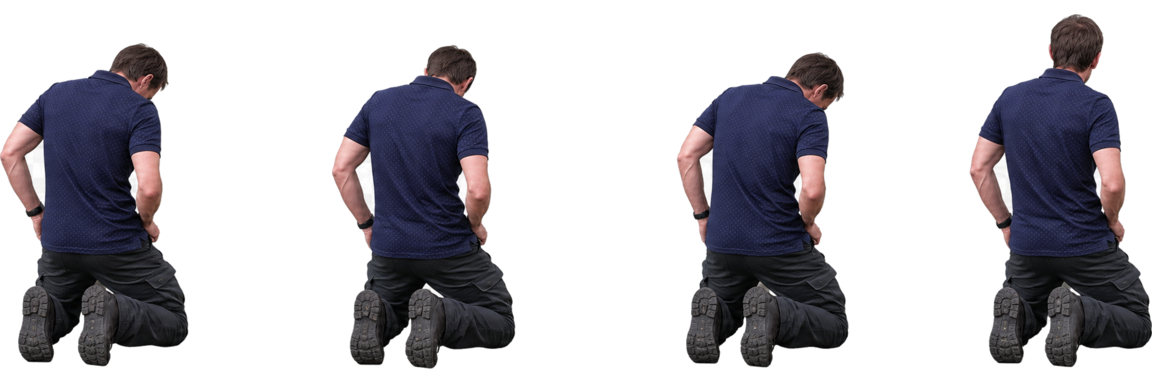
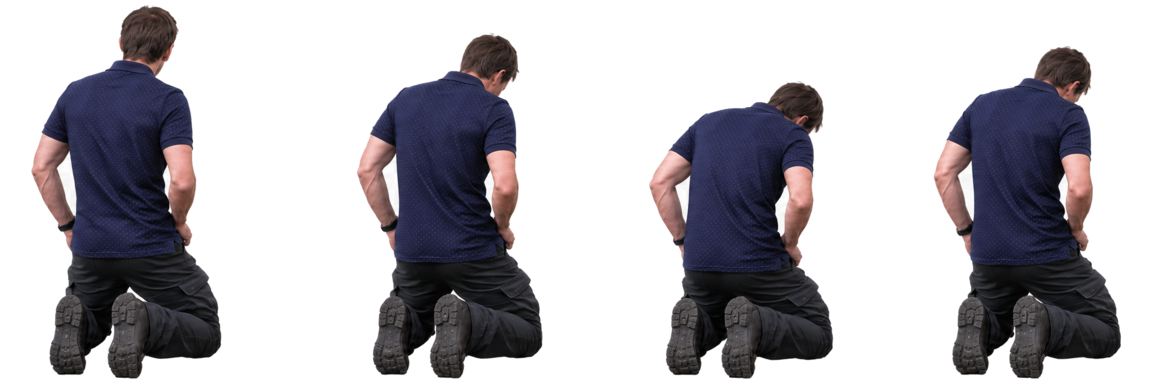
Add files via upload

diff --git a/hell_corridor_iv.html b/hell_corridor_iv.html
@@ -95,7 +95,7 @@ button.startbtn{border:3px solid #ffbd35;border-radius:4px;background:#a61414;co
 <img id="vanoverStainImg" src="vanover_stain.png" alt="" hidden>
 <div id="hud"><div id="score">SCORE 000000<br>DEVILS CORNER IV • 1991</div><div id="bloodHud">BLOOD 0</div><div id="objective">OBJECTIVE: PURGE THE SECTOR</div><div id="compass"></div><canvas id="radar" width="92" height="92"></canvas><div id="bossbar"><div class="bossfill"></div><span id="bossName">VANOVER</span></div><div id="cross"></div><div id="message"></div><div id="damage"></div><div id="status"><canvas id="face" width="54" height="54"></canvas><div class="stat health">GOYBOY<b id="health">100</b></div><div class="stat">AMMO<b id="ammo">72</b></div><div class="stat">KILLS<b id="kills">0/8</b></div></div><div id="weapons"><button class="weaponSlot active" data-w="0"><b>1</b>RIPPER<span class="weaponAmmo">72</span></button><button class="weaponSlot" data-w="1"><b>2</b>SCATTER<span class="weaponAmmo">24</span></button><button class="weaponSlot" data-w="2"><b>3</b>PLASMA<span class="weaponAmmo">45</span></button><button class="weaponSlot" data-w="3"><b>4</b>CHAIN<span id="gasReadout">GAS 100%</span></button></div></div>
 <div id="controls"><div id="look-zone"></div><div id="stick-zone"></div><div id="stick"><div id="knob"></div></div><button class="btn disabled" id="throw" type="button" aria-label="Throw Cigarette Butt"><span id="throwCount">0</span><small>THROW</small></button><button class="btn" id="use" type="button">USE</button><button class="btn" id="fire" type="button">FIRE</button></div><button id="mute" aria-label="Mute music">♫</button>
-<div id="start"><div class="card"><div class="eyebrow">GOYBOY ENGINE 6.18 • AUGUSTINE'S DISTRACTION</div><h1 class="title">DEVILS CORNER <span class="roman">IV</span></h1><div class="sub">BLOOD DOMINION</div><div class="lore">Every descent begins in an uneasy sanctuary. Augustine smiles while Vanover searches for a stain—but the moment Goyboy starts trouble, the hunt begins.</div><div class="difficulty"><button class="diffbtn" data-d="0">RECRUIT</button><button class="diffbtn active" data-d="1">MARINE</button><button class="diffbtn" data-d="2">NIGHTMARE</button></div><div class="help">Nathen's Blood Market waits in the protected spawn room<br>Augustine keeps Vanover distracted until combat begins<br>Leaving, firing, throwing, or opening the cage awakens the level<br>Install on iPhone: Share → Add to Home Screen</div><button class="startbtn" id="startBtn">ENTER DEVILS CORNER</button></div></div>
+<div id="start"><div class="card"><div class="eyebrow">GOYBOY ENGINE 6.19 • AUGUSTINE'S DISTRACTION</div><h1 class="title">DEVILS CORNER <span class="roman">IV</span></h1><div class="sub">BLOOD DOMINION</div><div class="lore">Every descent begins in an uneasy sanctuary. Augustine smiles while Vanover searches for a stain—but the moment Goyboy starts trouble, the hunt begins.</div><div class="difficulty"><button class="diffbtn" data-d="0">RECRUIT</button><button class="diffbtn active" data-d="1">MARINE</button><button class="diffbtn" data-d="2">NIGHTMARE</button></div><div class="help">Nathen's Blood Market waits in the protected spawn room<br>Augustine keeps Vanover distracted until combat begins<br>Leaving, firing, throwing, or opening the cage awakens the level<br>Install on iPhone: Share → Add to Home Screen</div><button class="startbtn" id="startBtn">ENTER DEVILS CORNER</button></div></div>
 <div id="end"><div class="card"><h1 class="title" id="endTitle">SECTOR PURGED</h1><div class="scoreline" id="finalScore"></div><button class="startbtn" id="again">RUN IT AGAIN</button></div></div>
 <div id="upgrade"><div class="card"><div class="eyebrow">DESCENT REWARD</div><h2>CHOOSE YOUR DAMNATION</h2><div id="upgradeChoices"></div></div></div>
 <div id="shop"><div class="shopPanel"><div class="shopPortrait" aria-label="Nathen churning butter"></div><div><div class="shopHead"><div><div class="eyebrow">NATHEN'S BLOOD MARKET</div><h2>CHURN &amp; BURN</h2><div class="shopBlood" id="shopBlood">BLOOD: 0</div></div><button class="shopClose" id="shopClose">CLOSE</button></div><div class="shopGrid"><button class="shopItem" data-buy="health"><b>ARIZONA TEA</b>Restore 40 health<span>8 BLOOD</span></button><button class="shopItem" data-buy="ammo"><b>AMMO CRATE</b>+24 / +8 / +16<span>10 BLOOD</span></button><button class="shopItem" data-buy="power"><b>HELL POWER</b>Random power-up<span>18 BLOOD</span></button><button class="shopItem" data-buy="butt"><b>CIGARETTE BUTT</b>Vanover bait +1<span>14 BLOOD</span></button><button class="shopItem" data-buy="gas"><b>CHAIN GAS</b>Restore 50% gas<span>9 BLOOD</span></button><button class="shopItem" data-buy="armor"><b>SOUL PLATE</b>Gain 40 armor<span>12 BLOOD</span></button></div><div class="shopMsg" id="shopMsg">Nathen never stops churning.</div></div></div></div>
@@ -273,7 +273,7 @@ const finishEnemyNathenBase=finishEnemy;finishEnemy=function(e,melee=false){let 
 const resetNathenBase=reset;reset=function(next=false){if(!next)blood=0;resetNathenBase(next);setupNathen();updateHUD()};
 const releaseRunnerNathenBase=releaseRunner;releaseRunner=function(){let locked=!!runner?.caged;releaseRunnerNathenBase();if(locked)endSpawnSanctuary()};
 const tryMoveNathenBase=tryMove;tryMove=function(nx,ny,obj=p){if(nathen&&obj!==nathen&&Math.hypot(nx-nathen.x,ny-nathen.y)<(obj===p?.54:.43))return false;return tryMoveNathenBase(nx,ny,obj)};
-const useNathenBase=use;use=function(){if(run&&nathen&&Math.hypot(p.x-nathen.x,p.y-nathen.y)<1.42&&clearLine(p.x,p.y,nathen.x,nathen.y)){openNathenStore();return}useNathenBase()};
+const useNathenBase=use;use=function(){let cagePriority=runner?.caged&&runnerCage&&Math.hypot(p.x-runnerCage.x,p.y-runnerCage.y)<1.5;if(run&&nathen&&!cagePriority&&Math.hypot(p.x-nathen.x,p.y-nathen.y)<1.42&&clearLine(p.x,p.y,nathen.x,nathen.y)){openNathenStore();return}useNathenBase()};
 const updateNathenBase=update;update=function(dt){if(spawnSanctuary){if(!inSpawnSanctuary(p.x,p.y))endSpawnSanctuary('SANCTUARY BREACHED • MONSTERS AWAKEN');else spawnGrace=Math.max(spawnGrace,1.2)}updateNathenBase(dt);if(run)collectBlood()};
 const worldNathenBase=drawWorldSprites;drawWorldSprites=function(){worldNathenBase();drawBloodDrops();drawNathenWorld()};
 const radarNathenBase=drawRadar;drawRadar=function(){radarNathenBase();let sc=(Math.min(rad.width,rad.height)-10)/16,ox=(rad.width-16*sc)/2,oy=(rad.height-16*sc)/2;if(nathen){rg.fillStyle='#ffcf58';rg.fillRect(ox+nathen.x*sc-2,oy+nathen.y*sc-2,4,4);rg.fillStyle='#fff2ae';rg.font='bold 6px monospace';rg.fillText('N',ox+nathen.x*sc-2,oy+nathen.y*sc-4)}for(const o of bloodDrops)if(o.on){rg.fillStyle='#d7192d';rg.fillRect(ox+o.x*sc-1,oy+o.y*sc-1,3,3)}};
@@ -282,11 +282,11 @@ const finishNathenBase=finish;finish=function(win){if(shopOpen)closeNathenStore(
 // AUGUSTINE'S OPENING TABLEAU: a harmless, untargetable distraction in every sanctuary
 let bottleFriend=null;
 function openingPointClear(x,y,r=.22){if(wallAt(x-r,y-r)||wallAt(x+r,y-r)||wallAt(x-r,y+r)||wallAt(x+r,y+r))return false;if(nathen&&Math.hypot(x-nathen.x,y-nathen.y)<.72)return false;if(runnerCage&&Math.hypot(x-runnerCage.x,y-runnerCage.y)<.78)return false;return !pickups.some(i=>i.on&&Math.hypot(x-i.x,y-i.y)<.55)}
-function setupBottleFriend(){bottleFriend=null;let v=enemies.find(e=>e.alive&&e.stalker);if(!v)return;let spots=[];for(let i=0;i<32;i++){let a=i*Math.PI/16,fx=Math.cos(a),fy=Math.sin(a),rx=-fy,ry=fx;for(const side of [-.42,.42]){let ax=p.x+fx*2.42+rx*side,ay=p.y+fy*2.42+ry*side,vx=p.x+fx*1.28+rx*side*.18,vy=p.y+fy*1.28+ry*side*.18;if(!openingPointClear(ax,ay,.24)||!openingPointClear(vx,vy,.28)||!clearLine(p.x,p.y,ax,ay))continue;let dN=nathen?Math.hypot(ax-nathen.x,ay-nathen.y):9,dC=runnerCage?Math.hypot(ax-runnerCage.x,ay-runnerCage.y):9;spots.push({a,ax,ay,vx,vy,score:dN+dC-Math.abs(side)*.1})}}if(!spots.length)return;spots.sort((a,b)=>b.score-a.score);let q=spots[0];p.a=Math.atan2((q.ay+q.vy)*.5-p.y,(q.ax+q.vx)*.5-p.x);bottleFriend={x:q.ax,y:q.ay,name:'AUGUSTINE',opening:true,used:false,untargetable:true,phase:Math.random()*3};v.x=q.vx;v.y=q.vy;v.px=q.vx;v.py=q.vy;v.openingStain=true;v.stainElapsed=0;v.stalkerState='openingStain';v.seen=999;v.cool=999;v.vanoverStuck=0;lastHunt=0}
+function setupBottleFriend(){bottleFriend=null;let v=enemies.find(e=>e.alive&&e.stalker);if(!v)return;let spots=[];for(let i=0;i<32;i++){let a=i*Math.PI/16,fx=Math.cos(a),fy=Math.sin(a),rx=-fy,ry=fx;for(const side of [-.3,.3]){let ax=p.x+fx*2.38+rx*side,ay=p.y+fy*2.38+ry*side,vx=p.x+fx*2.01+rx*side,vy=p.y+fy*2.01+ry*side;if(!openingPointClear(ax,ay,.22)||!openingPointClear(vx,vy,.24)||!clearLine(p.x,p.y,ax,ay))continue;let dN=nathen?Math.hypot(ax-nathen.x,ay-nathen.y):9,dC=runnerCage?Math.hypot(ax-runnerCage.x,ay-runnerCage.y):9;spots.push({a,ax,ay,vx,vy,score:dN+dC-Math.abs(side)*.1})}}if(!spots.length)return;spots.sort((a,b)=>b.score-a.score);let q=spots[0];p.a=Math.atan2((q.ay+q.vy)*.5-p.y,(q.ax+q.vx)*.5-p.x);bottleFriend={x:q.ax,y:q.ay,name:'AUGUSTINE',opening:true,used:false,untargetable:true,noCollision:true,phase:Math.random()*3};v.x=q.vx;v.y=q.vy;v.px=q.vx;v.py=q.vy;v.openingStain=true;v.stainElapsed=0;v.stalkerState='openingStain';v.seen=999;v.cool=999;v.vanoverStuck=0;lastHunt=0}
 function releaseAugustineOpening(){if(bottleFriend){bottleFriend.opening=false;bottleFriend.used=true}let v=enemies.find(e=>e.alive&&e.stalker);if(v?.openingStain){v.openingStain=false;v.stainElapsed=0;v.stalkerState='stalk';v.cool=.7;v.seen=0;v.vanoverStuck=0}}
-function drawBottleFriendWorld(){if(!bottleFriend||!bottleFriendImg.complete||!bottleFriendImg.naturalWidth)return;let dx=bottleFriend.x-p.x,dy=bottleFriend.y-p.y,d=Math.hypot(dx,dy),a=Math.atan2(dy,dx),da=Math.atan2(Math.sin(a-p.a),Math.cos(a-p.a));if(Math.abs(da)>FOV*.72)return;let sx=(.5+da/FOV)*W,sz=Math.min(H*1.42,H/Math.max(.15,d)),zi=Math.max(0,Math.min(W-1,sx|0));if(d>zbuf[zi]+.2)return;let sw=bottleFriendImg.naturalWidth/3,sh=bottleFriendImg.naturalHeight,pose=(frame/18|0)%3,dw=sz*.62,dh=dw*(sh/sw),x=sx-dw/2,y=H/2+sz*.42-dh;g.save();g.globalAlpha=Math.max(.5,1-d/18);g.imageSmoothingEnabled=true;g.imageSmoothingQuality='high';g.drawImage(bottleFriendImg,pose*sw,0,sw,sh,x,y,dw,dh);g.shadowColor='#ffb13c';g.shadowBlur=Math.max(3,sz*.03);g.fillStyle='#ffe1a0';g.font=`bold ${Math.max(7,sz*.09)}px monospace`;g.textAlign='center';g.fillText('AUGUSTINE',sx,y-Math.max(4,sz*.035));g.restore();g.textAlign='start'}
+function drawBottleFriendWorld(){if(!bottleFriend||!bottleFriendImg.complete||!bottleFriendImg.naturalWidth)return;let dx=bottleFriend.x-p.x,dy=bottleFriend.y-p.y,d=Math.hypot(dx,dy),a=Math.atan2(dy,dx),da=Math.atan2(Math.sin(a-p.a),Math.cos(a-p.a));if(Math.abs(da)>FOV*.72)return;let sx=(.5+da/FOV)*W,sz=Math.min(H*1.42,H/Math.max(.15,d)),zi=Math.max(0,Math.min(W-1,sx|0));if(d>zbuf[zi]+.2)return;let sw=bottleFriendImg.naturalWidth/3,sh=bottleFriendImg.naturalHeight,pose=(frame/18|0)%3,dw=sz*.78,dh=dw*(sh/sw),x=sx-dw/2,y=H/2+sz*.42-dh;g.save();g.globalAlpha=Math.max(.5,1-d/18);g.imageSmoothingEnabled=true;g.imageSmoothingQuality='high';g.drawImage(bottleFriendImg,pose*sw,0,sw,sh,x,y,dw,dh);g.shadowColor='#ffb13c';g.shadowBlur=Math.max(3,sz*.03);g.fillStyle='#ffe1a0';g.font=`bold ${Math.max(7,sz*.09)}px monospace`;g.textAlign='center';g.fillText('AUGUSTINE',sx,y-Math.max(4,sz*.035));g.restore();g.textAlign='start'}
 const updateStalkerBottleBase=updateStalker;updateStalker=function(e,dt){if(e.stalker&&e.alive&&e.openingStain&&spawnSanctuary){lastHunt=0;e.tauntPoseTime=0;e.stalkerState='openingStain';e.cool=999;e.voiceCool=Math.max(0,(e.voiceCool||0)-dt);e.stainElapsed=(e.stainElapsed||0)+dt;return}updateStalkerBottleBase(e,dt)};
-const drawEnemySpriteBottleBase=drawEnemySprite;drawEnemySprite=function(e,sx,top,sz,d){if(e.stalker&&e.alive&&e.openingStain&&spawnSanctuary&&vanoverStainImg.complete&&vanoverStainImg.naturalWidth){let sw=vanoverStainImg.naturalWidth/4,sh=vanoverStainImg.naturalHeight,pose=Math.floor((e.stainElapsed||0)*5)%4,dw=sz*.8,dh=dw*(sh/sw),dx=sx-dw/2,dy=top+sz-dh;g.save();g.globalAlpha=Math.max(.5,1-d/18);g.imageSmoothingEnabled=true;g.imageSmoothingQuality='high';g.drawImage(vanoverStainImg,pose*sw,0,sw,sh,dx,dy,dw,dh);g.restore();e.px=e.x;e.py=e.y;return}drawEnemySpriteBottleBase(e,sx,top,sz,d)};
+const drawEnemySpriteBottleBase=drawEnemySprite;drawEnemySprite=function(e,sx,top,sz,d){if(e.stalker&&e.alive&&e.openingStain&&spawnSanctuary&&vanoverStainImg.complete&&vanoverStainImg.naturalWidth){let sw=vanoverStainImg.naturalWidth/4,sh=vanoverStainImg.naturalHeight,t=e.stainElapsed||0,pose=Math.floor(t*6)%4,pulse=(1-Math.cos(t*Math.PI*3))*.5,dw=sz*(.47+pulse*.018),dh=dw*(sh/sw),dx=sx-dw/2,dy=top+sz-dh+pulse*sz*.018;g.save();g.globalAlpha=Math.max(.5,1-d/18);g.imageSmoothingEnabled=true;g.imageSmoothingQuality='high';g.drawImage(vanoverStainImg,pose*sw,0,sw,sh,dx,dy,dw,dh);g.restore();e.px=e.x;e.py=e.y;return}drawEnemySpriteBottleBase(e,sx,top,sz,d)};
 const endSpawnSanctuaryAugustineBase=endSpawnSanctuary;endSpawnSanctuary=function(message=''){let was=spawnSanctuary;endSpawnSanctuaryAugustineBase(message);if(was&&!spawnSanctuary)releaseAugustineOpening()};
 const triggerFireAugustineBase=triggerFire;triggerFire=function(){if(run&&spawnSanctuary)endSpawnSanctuary('COMBAT STARTED • VANOVER AWAKENS');triggerFireAugustineBase()};
 const throwSmolderAugustineBase=throwSmolder;throwSmolder=function(){if(run&&spawnSanctuary)endSpawnSanctuary('COMBAT STARTED • VANOVER AWAKENS');throwSmolderAugustineBase()};

diff --git a/sw.js b/sw.js
@@ -1,4 +1,4 @@
-const CACHE='devils-corner-v6-18';
+const CACHE='devils-corner-v6-19';
 const CORE=['./hell_corridor_iv.html','./manifest.webmanifest','./app-icon.svg','./demon_sprites.png','./environment_atlas.png','./equipment_sprites.png','./effects_pickups_atlas.png','./health_tea.png','./nathen_vendor.png','./bottle_friend.png','./vanover_stain.png','./chainsaw_sprite.png','./stalker_sprites.png','./vanover_taunt_poses.png','./cinder_runner_poses.png','./goyboy_faces_reborn.png','./hell_scenery.png','./infernal_props_atlas.png','./smolder_bomb.png','./vanover_smoking.png','./nathen_store.m4a','./infernal_reign_theme.mp3','./demon_growl.mp3','./demon_attack.mp3','./demon_hurt.mp3','./demon_death.mp3','./boss_roar.mp3','./shooter_cast.mp3','./stalker_taunt1.m4a','./stalker_taunt2.m4a','./stalker_hidden.m4a','./stalker_attack.m4a','./stalker_hurt.m4a','./stalker_death.m4a','./vanover_dont_shoot.m4a','./vanover_intro.m4a','./vanover_chase.m4a'];
 self.addEventListener('install',event=>event.waitUntil(caches.open(CACHE).then(cache=>cache.addAll(CORE)).then(()=>self.skipWaiting())));
 self.addEventListener('activate',event=>event.waitUntil(caches.keys().then(keys=>Promise.all(keys.filter(key=>key!==CACHE).map(key=>caches.delete(key)))).then(()=>self.clients.claim())));